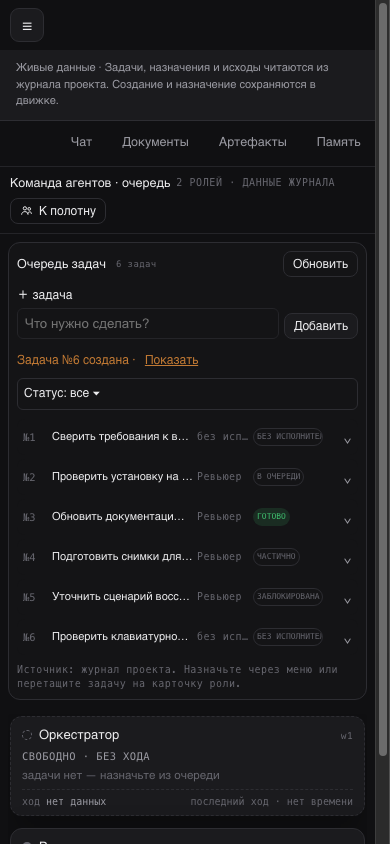
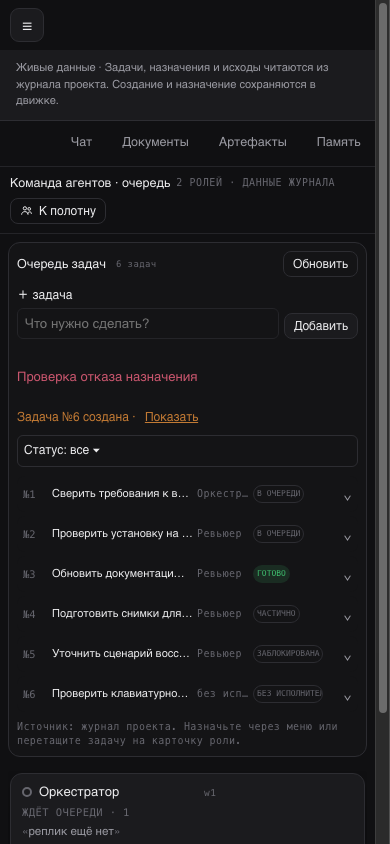
fix(queue): restore assignment focus without stealing navigation

diff --git a/ui/deploy/team-live.js b/ui/deploy/team-live.js
@@ -115,21 +115,20 @@
   const policyWords={owner:'Владелец',orchestrator:'Оркестратор',assistant:'Ассистент',architect:'Архитектор',executor:'Воркер',worker:'Воркер',reviewer:'Ревьюер',tester:'Тестер',researcher:'Исследователь',task:'задача',question:'вопрос',answer:'ответ',stop:'остановка',resume:'продолжение',decision:'решение',note:'заметка',digest:'сводка',proposal:'предложение',report:'отчёт',status:'состояние',blocker:'препятствие',escalation:'обращение к владельцу','review-request':'запрос ревью',verdict:'вердикт'};
   const policyLabel=(id,record=false)=>id==='*'?(record?'все виды записей':'все места'):S.data?.panes.find(row=>row.id===id)?.label||policyWords[id]||(record?'вид записи':'участник');
   function drawPolicy(){const box=root.querySelector('[data-team-policy]');if(!box)return;const policy=S.data?.policy,valid=policy?.ok===true&&Array.isArray(policy.routes)&&policy.routes.every(r=>Array.isArray(r.from)&&r.from.every(x=>typeof x==='string')&&Array.isArray(r.to)&&r.to.every(x=>typeof x==='string')&&(r.kinds==='*'||Array.isArray(r.kinds)&&r.kinds.every(x=>typeof x==='string')));box.innerHTML='<summary>Связи · оргсхема и политика обмена</summary><p>Оргсхема показана на полотне. Маршруты — кто кому какие записи может отправлять.</p>'+(valid?'<ul>'+policy.routes.map(r=>'<li title="'+esc(r.from.join(', ')+' → '+r.to.join(', ')+' · '+(r.kinds==='*'?'*':r.kinds.join(', '))+(r.trigger?' · '+r.trigger:''))+'"><b>'+esc(r.from.map(id=>policyLabel(id)).join(', '))+' → '+esc(r.to.map(id=>policyLabel(id)).join(', '))+'</b> · '+esc(r.kinds==='*'?'все виды записей':r.kinds.map(id=>policyLabel(id,true)).join(', '))+(r.trigger?' · '+esc(r.trigger==='wake'?'запускает ход':r.trigger.startsWith('reply-to:')?'в ответ на «'+policyLabel(r.trigger.slice(9),true)+'»':'по условию доставки'):'')+'</li>').join('')+'</ul>':'<p role="alert">'+esc(policy?.error||'Политика обмена не прочитана.')+'</p>')+'<button class="btn sm ghost" disabled>Редактировать связи</button> '+TC.tag('mock','макет · редактирование связей')}
-  function queueRows(){const rows=S.filter==='all'?S.queue:S.queue.filter(task=>task.st===S.filter);return '<div class="tc-queue"><div class="filt"><button class="chip'+(S.filter==='all'?' on':'')+'" data-team-filter="all">Все · '+S.queue.length+'</button>'+[['q','В очереди'],['work','В работе'],['rev','На ревью'],['done','Готово']].map(([key,label])=>'<button class="chip'+(S.filter===key?' on':'')+'" data-team-filter="'+key+'">'+label+'</button>').join('')+'<span class="sp"></span>'+TC.tag('mock','макет · очередь из плана')+'</div><div class="hd"><b>Очередь задач</b><span class="m">пример · не данные движка</span></div><div class="rows one">'+rows.map(task=>TC.task(task,{cls:'big'})).join('')+'</div><div class="src">Макет · перетащите строку на карточку роли справа: состояние изменится только в браузере.</div></div>'}
-  function queueShell(){const targets=[{...TC.ROLES[0],id:'mock-orch',name:'Оркестратор',gen:'оркестратора',st:'free',stText:'цель макета'},...TC.ROLES.slice(0,4)];content(tabs()+'<div class="ps2-tbar"><b>Команда агентов · очередь</b><span class="m">пример взаимодействия</span>'+TC.tag('mock','в движке очереди нет')+'<span class="r"><button type="button" class="btn sm ghost" data-team-work>'+icon('swarm')+'К полотну</button></span></div><div class="tc-qbig" data-spec-mock="В движке Harnessy очереди задач нет."><div data-team-queue-list></div><div class="targets"><span class="lbl">цели · данные примера</span>'+targets.map(cardHTML).join('')+'</div></div>');TC.bindQueue(root,S.queue,(task,card)=>{drawQueue();const line=card.querySelector('.l3');if(line)line.textContent='№'+task.n+' назначена: '+task.t});drawQueue()}
-  function drawQueue(){const box=root.querySelector('[data-team-queue-list]');if(box)box.innerHTML=queueRows()}
+  function queueShell(){content(tabs()+'<div class="ps2-tbar"><b>Команда агентов · очередь</b><span class="m" data-team-summary>Читаю состав…</span><span class="r"><button type="button" class="btn sm ghost" data-team-work>'+icon('swarm')+'К полотну</button></span></div><div class="tc-qbig"><div data-task-queue="full"></div><div class="targets" data-task-targets></div></div>');window.HARNESS_TASK_QUEUE?.draw()}
+  function drawQueue(){if(!root.querySelector('[data-task-queue]'))queueShell();const ready=snapshotCurrent();root.querySelector('[data-team-count]').textContent=ready?S.derived.members.length+' ролей':'нет данных';root.querySelector('[data-team-link]').textContent=ready?'подключено':'нет данных';root.querySelector('[data-team-summary]').textContent=ready?S.derived.members.length+' ролей · данные журнала':'Состав не подтверждён';window.HARNESS_TASK_QUEUE?.draw()}
   async function saveConstructor(){captureDrafts();const binding=S.binding,button=root.querySelector('[data-team-save]');if(!snapshotCurrent(binding)){button.disabled=false;error('Проект изменился. Дождитесь состава нового проекта.');return}const changes=[];for(const node of root.querySelectorAll('[data-team-pane]')){const draft=draftFor(node.dataset.teamPane);if(draftHas(draft,'model')||draftHas(draft,'mode'))changes.push({node,draft})}if(!changes.length){LIVE.toast('Изменений модели и прав нет.');return}button.disabled=true;try{for(const change of changes){if(!snapshotCurrent(binding))throw Error('Проект изменился. Дождитесь состава нового проекта.');const id=change.node.dataset.teamPane,pane=S.data&&S.data.panes.find(row=>row.id===id),receipt=S.settings.get(id);if(!pane||!receipt)throw Error('Не удалось подтвердить настройки места. Обновите экран.');const selectedModel=draftHas(change.draft,'model')?change.draft.model:encodeURIComponent(pane.vendor)+'/'+encodeURIComponent(pane.model),[vendor,model]=selectedModel.split('/').map(decodeURIComponent),selectedMode=draftHas(change.draft,'mode')?change.draft.mode:pane.mode,rightsChanged=draftHas(change.draft,'mode');if(rightsChanged&&pane.busy)throw Error('Место сейчас отвечает — права можно изменить после завершения хода.');const body={vendor,model,mode:selectedMode,binding:{...receipt}},value=await LIVE.api('/api/panes/'+encodeURIComponent(id),body);if(!snapshotCurrent(binding))return;if(!value||value.ok!==true||!value.pane||value.pane.id!==id||value.pane.vendor!==vendor||value.pane.model!==model||value.pane.mode!==selectedMode)throw Error(value&&value.error||'Движок не подтвердил настройки места.');S.drafts.delete(draftKey(binding.project,id))}await LIVE.refreshStatus(true);if(!projectCurrent(binding))return;await sync(true);LIVE.toast('Модель и права сохранены. Со следующего хода.')}catch(failure){if(projectCurrent(binding))error(failure.message||'Настройки не сохранены.')}finally{button.disabled=false}}
   async function assignRole(role){const binding=S.binding;if(!snapshotCurrent(binding)){error('Проект изменился. Дождитесь состава нового проекта.');return}const catalog=Array.isArray(H.roleCatalog)&&H.roleCatalog.find(row=>row.role===role);if(!catalog||!catalog.available){error(catalog&&catalog.reason||'Роль сейчас недоступна.');return}const chat=(H.active||{}).room;if(!chat){error('Сначала начните разговор без роли — его можно назначить оркестратором.');return}try{const opened=await LIVE.api('/api/chats/'+encodeURIComponent(chat));if(!snapshotCurrent(binding))return;if(!validChat(opened,'room',chat))throw Error(opened&&opened.error||'Разговор без роли изменился.');const value=await LIVE.api('/api/assign',{role,chat,project:binding.project,revision:opened.chat.revision,documents:opened.chat.documents});if(!snapshotCurrent(binding))return;if(!value||value.ok!==true)throw Error(value&&value.error||'Роль не назначена.');await LIVE.refreshStatus(true);if(!projectCurrent(binding))return;await sync(true);LIVE.toast('Оркестратор назначен.')}catch(failure){if(projectCurrent(binding))error(failure.message||'Роль не назначена.')}}
   async function sendOrchestrator(){const row=S.derived&&S.derived.orch,input=root.querySelector('[data-team-chat-input]'),binding=S.binding;if(!row||!input)return;if(!snapshotCurrent(binding)){error('Проект изменился. Дождитесь состава нового проекта.');return}const message=input.value.trim();if(!message)return;const chat=row.chat;input.disabled=true;try{const value=await LIVE.api('/api/chat',{pane:row.id,message});if(!snapshotCurrent(binding)||S.derived&&S.derived.orch&&S.derived.orch.chat!==chat)return;if(!value||value.ok!==true)throw Error(value&&value.error||'Сообщение не отправлено.');input.value='';await sync(true)}catch(failure){if(projectCurrent(binding))error(failure.message||'Сообщение не отправлено.')}finally{input.disabled=false}}
   function openOrchestrator(){const row=S.derived&&S.derived.orch;if(!row||!snapshotCurrent()){error('Проект изменился. Дождитесь состава нового проекта.');return}LIVE.S.ui.pane=row.id;LIVE.save();location.href='01-chat.html'}
   function invalidateSnapshot(){if(!S.binding||projectCurrent(S.binding))return false;S.settings=new Map();S.error='Проект изменился. Дождитесь состава нового проекта.';draw();return true}
-  async function sync(force=false){clearTimeout(retryTimer);if(!alive||mode==='queue')return;if(!H.on||H.snapshotOnly){S.binding=null;S.settings=new Map();S.data=null;S.chats=new Map();S.derived=null;S.error='Движок недоступен — живые данные команды не показаны.';draw();return}if(S.loading){S.queued=true;return}const binding=projectBinding(),request=++S.request;S.loading=true;try{const data=await LIVE.api('/api/swarm');if(request!==S.request||!projectCurrent(binding))return;if(!validSnapshot(data,binding.project))throw Error('Снимок команды не прошёл проверку.');const pairs=await Promise.all(data.panes.map(async pane=>{if(!pane.chat)return [pane.id,null];try{const chat=await LIVE.api('/api/chats/'+encodeURIComponent(pane.chat));return [pane.id,validChat(chat,pane.id,pane.chat)?chat:null]}catch(failure){return [pane.id,null]}}));if(request!==S.request||!projectCurrent(binding))return;const settings=new Map(data.panes.map(pane=>[pane.id,settingReceipt(pane.id,binding)]));S.skipDraftCapture=mode==='constructor'&&!sameBinding(S.binding,binding);S.binding=binding;S.settings=settings;S.data=data;S.chats=new Map(pairs);S.derived=derive(data);S.error=null;draw();if(window.HARNESS_BOOT)window.HARNESS_BOOT.ready()}catch(failure){if(request===S.request&&projectCurrent(binding)){S.error=failure.message||'Не удалось прочитать команду.';draw()}}finally{if(request===S.request){S.loading=false;if(S.queued){S.queued=false;void sync(true)}else if(S.error&&alive)retryTimer=setTimeout(()=>{void sync(true)},3000)}}}
+  async function sync(force=false){clearTimeout(retryTimer);if(!alive)return;if(!H.on||H.snapshotOnly){S.binding=null;S.settings=new Map();S.data=null;S.chats=new Map();S.derived=null;S.error='Движок недоступен — живые данные команды не показаны.';draw();return}if(S.loading){S.queued=true;return}const binding=projectBinding(),request=++S.request;S.loading=true;try{const data=await LIVE.api('/api/swarm');if(request!==S.request||!projectCurrent(binding))return;if(!validSnapshot(data,binding.project))throw Error('Снимок команды не прошёл проверку.');const pairs=await Promise.all(data.panes.map(async pane=>{if(!pane.chat)return [pane.id,null];try{const chat=await LIVE.api('/api/chats/'+encodeURIComponent(pane.chat));return [pane.id,validChat(chat,pane.id,pane.chat)?chat:null]}catch(failure){return [pane.id,null]}}));if(request!==S.request||!projectCurrent(binding))return;const settings=new Map(data.panes.map(pane=>[pane.id,settingReceipt(pane.id,binding)]));S.skipDraftCapture=mode==='constructor'&&!sameBinding(S.binding,binding);S.binding=binding;S.settings=settings;S.data=data;S.chats=new Map(pairs);S.derived=derive(data);S.error=null;draw();if(window.HARNESS_BOOT)window.HARNESS_BOOT.ready()}catch(failure){if(request===S.request&&projectCurrent(binding)){S.error=failure.message||'Не удалось прочитать команду.';draw()}}finally{if(request===S.request){S.loading=false;if(S.queued){S.queued=false;void sync(true)}else if(S.error&&alive)retryTimer=setTimeout(()=>{void sync(true)},3000)}}}
   let disclosureScope=null;
   function disclosureKey(button){const pane=button.closest('[data-key]'),role=button.closest('[data-team-role-key]');return pane?JSON.stringify(['pane',pane.dataset.key,button.dataset.tcReveal]):role?JSON.stringify(['catalog',role.dataset.teamRoleKey,button.dataset.tcReveal]):null}
   function draw(){
     const scope=S.binding&&JSON.stringify([S.binding,S.data?.instance]),saved=new Map();
     if(scope===disclosureScope&&snapshotCurrent())root.querySelectorAll('[data-tc-reveal]').forEach(button=>{const key=disclosureKey(button);if(key)saved.set(key,{text:button.textContent,open:button.getAttribute('aria-expanded')==='true',focus:document.activeElement===button})});
-    if(mode==='work')drawWork();else if(mode==='constructor')drawConstructor();
+    if(mode==='work')drawWork();else if(mode==='constructor')drawConstructor();else if(mode==='queue')drawQueue();
     let focused=false;root.querySelectorAll('[data-tc-reveal]').forEach(button=>{const prior=saved.get(disclosureKey(button));if(!prior)return;if(prior.open&&prior.text===button.textContent){button.setAttribute('aria-expanded','true');button.nextElementSibling.hidden=false}if(prior.focus){button.focus({preventScroll:true});focused=true}});
     if(!focused&&[...saved.values()].some(item=>item.focus))(root.querySelector('[data-team-refresh]')||root.querySelector('[data-team-save]'))?.focus({preventScroll:true});
     disclosureScope=scope;

diff --git a/ui/deploy/task-queue.js b/ui/deploy/task-queue.js
@@ -34,14 +34,18 @@
  }
  async function refresh(force=false){const b=binding(),k=key(b);if(k!==Q.key){Q.key=k;Q.request++;Q.data=null;Q.actionError=null;Q.error=b?null:'Движок недоступен — очередь не прочитана.';Q.loading=false;Q.again=false;Q.sending=false;Q.drag=null;Q.menu=null;Q.notice=null;Q.highlight=null;Q.expanded.clear();draw()}
   if(!b)return;if(Q.loading){if(force)Q.again=true;return}Q.loading=true;const request=++Q.request;
-  try{const data=await L.api('/api/tasks');if(!current(b)||request!==Q.request)return;if(!valid(data,b))throw Error(data?.error||'Движок не подтвердил очередь этого проекта.');Q.data=data;Q.error=null}catch(e){if(current(b)&&request===Q.request){Q.data=null;Q.error=e.message||'Не удалось прочитать очередь.'}}finally{if(current(b)&&request===Q.request){Q.loading=false;draw();if(Q.again){Q.again=false;void refresh(true)}}}
+  try{const data=await L.api('/api/tasks');if(!current(b)||request!==Q.request)return;if(!valid(data,b))throw Error(data?.error||'Движок не подтвердил очередь этого проекта.');Q.data=data;Q.error=null}catch(e){if(current(b)&&request===Q.request){Q.data=null;Q.error=e.message||'Не удалось прочитать очередь.'}}finally{if(request===Q.request){Q.loading=false;draw();if(Q.again){Q.again=false;void refresh(true)}}}
  }
  const operation=(path,payload)=>{const {instance:_,...identity}=payload,id=JSON.stringify([path,identity]);if(!Q.operations.has(id))Q.operations.set(id,{...payload,opId:crypto.randomUUID()});return {id,body:Q.operations.get(id)}};
  async function post(path,payload){const b=binding();if(!b||!ready()||Q.sending){Q.error='Проект изменился. Обновите очередь.';draw();return null}const op=operation(path,{...payload,project:b.project,instance:b.instance});Q.sending=true;Q.actionError=null;draw();
   try{const answer=await L.api(path,op.body);if(!current(b))return null;if(!answer?.ok){if(answer?.code==='project_changed')Q.operations.delete(op.id);throw Error(answer?.error||'Движок отклонил действие.')}if(answer.project!==b.project||answer.instance!==b.instance)throw Error('Ответ относится к другому проекту.');Q.operations.delete(op.id);return answer}catch(e){if(current(b))Q.actionError=e.message||'Нет связи. Повторите действие — его номер сохранён.';return null}finally{if(current(b)){Q.sending=false;draw()}}
  }
  async function create(){const b=binding(),text=b&&Q.drafts.get(b.project)||'',focused=document.activeElement?.matches('[data-task-text],[data-task-form] button');if(!text.trim())return;const success=await post('/api/tasks',{text});if(success&&current(b)){if(Q.drafts.get(b.project)===text)Q.drafts.delete(b.project);if(validRow(success.task))Q.notice={n:success.task.n,taskId:success.task.taskId}}if(current(b)){await refresh(true);if(focused&&(!document.activeElement||document.activeElement===document.body||document.activeElement.matches('[data-task-text],[data-task-form] button')))document.querySelector('[data-task-text]')?.focus()}}
- async function assign(id,to){const task=ready()&&Q.data.tasks.find(t=>t.taskId===id);if(!task||!canAssign(task)||!roles().some(p=>p.id===to)){Q.error='Задача уже выполняется или её состояние не подтверждено.';draw();return}const b=binding();await post('/api/tasks/'+encodeURIComponent(id)+'/assign',{to,expectedState:task.expectedState});if(current(b))await refresh(true)}
+ async function assign(id,to){const task=ready()&&Q.data.tasks.find(t=>t.taskId===id);if(!task||!canAssign(task)||!roles().some(p=>p.id===to)){Q.error='Задача уже выполняется или её состояние не подтверждено.';draw();return}const b=binding(),origin=document.activeElement,ownsFocus=origin?.closest('[data-task-id]')?.dataset.taskId===id&&origin.matches('[data-task-choice],[data-task-assign]');let moved=false;
+  const watch=e=>{if(e.target!==document.body&&!(e.target.closest('[data-task-id]')?.dataset.taskId===id&&e.target.matches('[data-task-choice],[data-task-assign]')))moved=true};
+  if(ownsFocus)document.addEventListener('focusin',watch);
+  try{const answer=await post('/api/tasks/'+encodeURIComponent(id)+'/assign',{to,expectedState:task.expectedState});if(current(b)){await refresh(true);const active=document.activeElement;if(ownsFocus&&!moved&&(!active||active===document.body||active===origin||active.closest('[data-task-id]')?.dataset.taskId===id)){const row=[...document.querySelectorAll('[data-task-id]')].find(node=>node.dataset.taskId===id),target=answer?row?.querySelector('[data-task-assign]'):row?.querySelector('[data-task-choice="'+to+'"]')||row?.querySelector('[data-task-assign]');if(target&&!target.disabled)target.focus()}}}finally{if(ownsFocus)document.removeEventListener('focusin',watch)}
+ }
  document.addEventListener('submit',e=>{if(!e.target.matches('[data-task-form]'))return;e.preventDefault();void create()});
  document.addEventListener('input',e=>{if(!e.target.matches('[data-task-text]'))return;const b=binding();if(b)Q.drafts.set(b.project,e.target.value)});
  document.addEventListener('click',e=>{if(e.target.closest('[data-task-refresh]'))void refresh(true);const filter=e.target.closest('[data-task-filter]');if(filter){const narrow=filter.closest('.task-filter-narrow');Q.filter=filter.dataset.taskFilter;draw();const selector=narrow?'.task-filter-narrow summary':'.task-filter-wide [data-task-filter="'+Q.filter+'"]';document.querySelector(selector)?.focus()}const toggle=e.target.closest('[data-task-assign]');if(toggle){Q.menu=Q.menu===toggle.dataset.taskAssign?null:toggle.dataset.taskAssign;draw()}const choice=e.target.closest('[data-task-choice]');if(choice)void assign(choice.dataset.taskFor,choice.dataset.taskChoice);const expand=e.target.closest('[data-task-expand]');if(expand){const id=expand.dataset.taskExpand;Q.expanded.has(id)?Q.expanded.delete(id):Q.expanded.add(id);draw()}const show=e.target.closest('[data-task-show]');if(show){Q.filter='all';Q.highlight=show.dataset.taskShow;Q.expanded.add(Q.highlight);draw();const target=document.querySelector('[data-task-id="'+Q.highlight+'"]');target?.scrollIntoView?.({block:'nearest'});target?.querySelector('[data-task-expand]')?.focus()}});

diff --git a/packages/api/src/task-queue-ui.test.ts b/packages/api/src/task-queue-ui.test.ts
@@ -46,3 +46,16 @@ test('TS-39.1 status refresh preserves row/menu identity, input and filter focus
  const filter=v.body.querySelector('.task-filter-wide [data-task-filter="done"]')!;filter.focus();await filter.emit('click');assert.equal(v.document.activeElement,v.body.querySelector('.task-filter-wide [data-task-filter="done"]'));assert.match(v.body.textContent,/В этом статусе задач нет/);await v.ui.refresh();assert.equal(v.document.activeElement,v.body.querySelector('.task-filter-wide [data-task-filter="done"]'));
  assert.equal(v.body.querySelector('select'),null);assert.doesNotMatch(v.body.querySelector('[data-task-targets]')!.textContent,/idle/);
 });
+
+for(const success of [true,false])for(const move of [false,true])test('TS-39.1 assignment restores real activeElement after '+(success?'success':'refusal')+(move?' without stealing another control':''),async()=>{
+ const gate=deferred<any>();let assigned=false;const v=view(async(_path,body,H)=>body?gate.promise:{ok:true,project:H.project,instance:'instance-a',tasks:[task(assigned?{to:'worker',state:'queued'}:{})],outsideQueue:[]});await settled();
+ await v.body.querySelector('[data-task-assign]')!.emit('click');const choice=v.body.querySelector('[data-task-choice]')!;choice.focus();const job=v.ui.assign(task().taskId,'worker');
+ const input=v.body.querySelector('[data-task-text]')!;if(move){input.focus();await input.emit('focusin')}
+ assigned=success;gate.resolve({ok:success,project:'/a',instance:'instance-a',error:success?undefined:'Не удалось назначить'});await job;
+ assert.equal(v.document.activeElement,move?input:v.body.querySelector(success?'[data-task-assign]':'[data-task-choice]'));assert.equal(v.document.activeElement?.disabled,false);
+});
+
+test('TS-39.1 rebase: a reply during cached startup releases loading for the next confirmed status',async()=>{
+ const gate=deferred<any>();let hold=true;const v=view(async()=>hold?gate.promise:v.data());v.H.snapshotOnly=true;gate.resolve(v.data());await settled();assert.equal(v.ui.state.loading,false);assert.equal(v.ui.state.data,null);
+ hold=false;v.H.snapshotOnly=false;for(const fn of v.listeners.get('live:status')||[])fn();await settled();assert.ok(v.body.querySelector('[data-task-id]'));assert.equal(v.ui.state.loading,false);
+});
